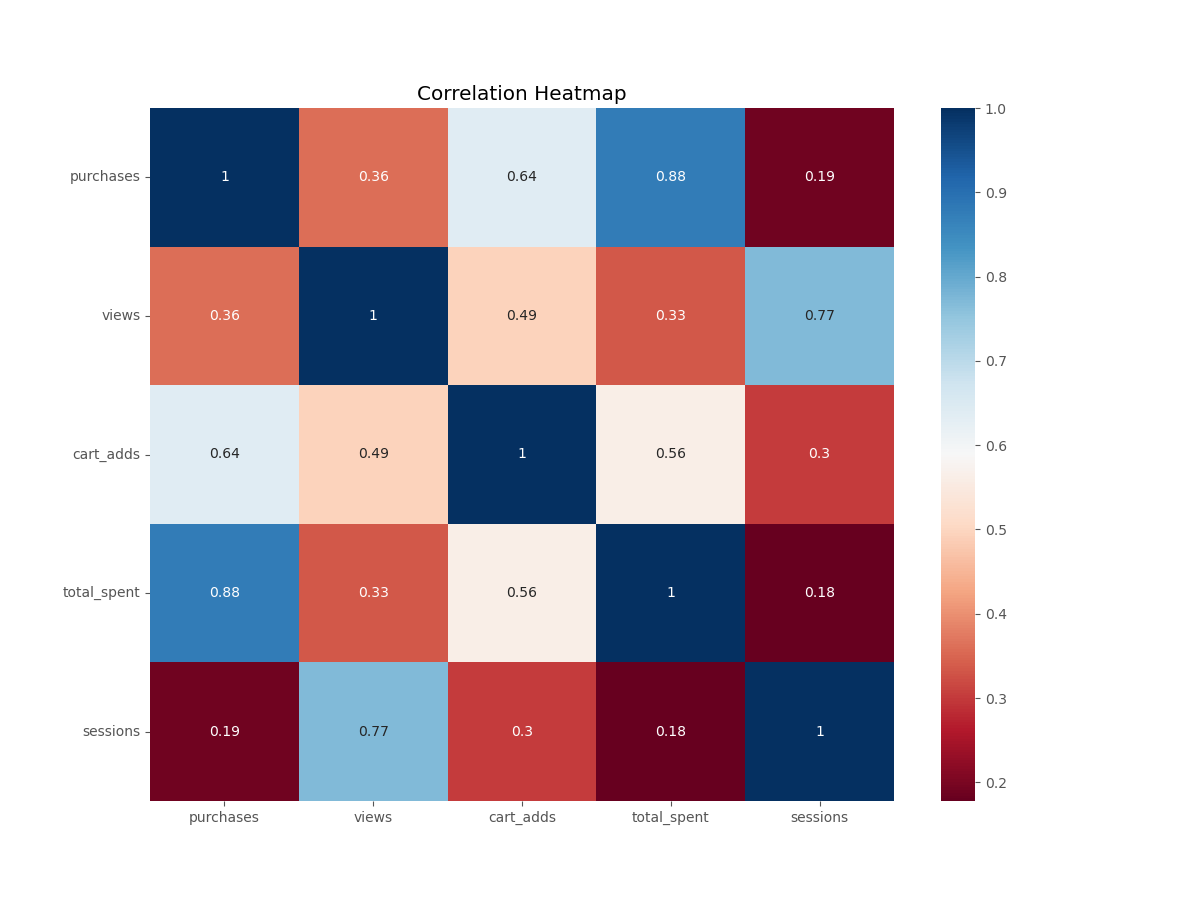
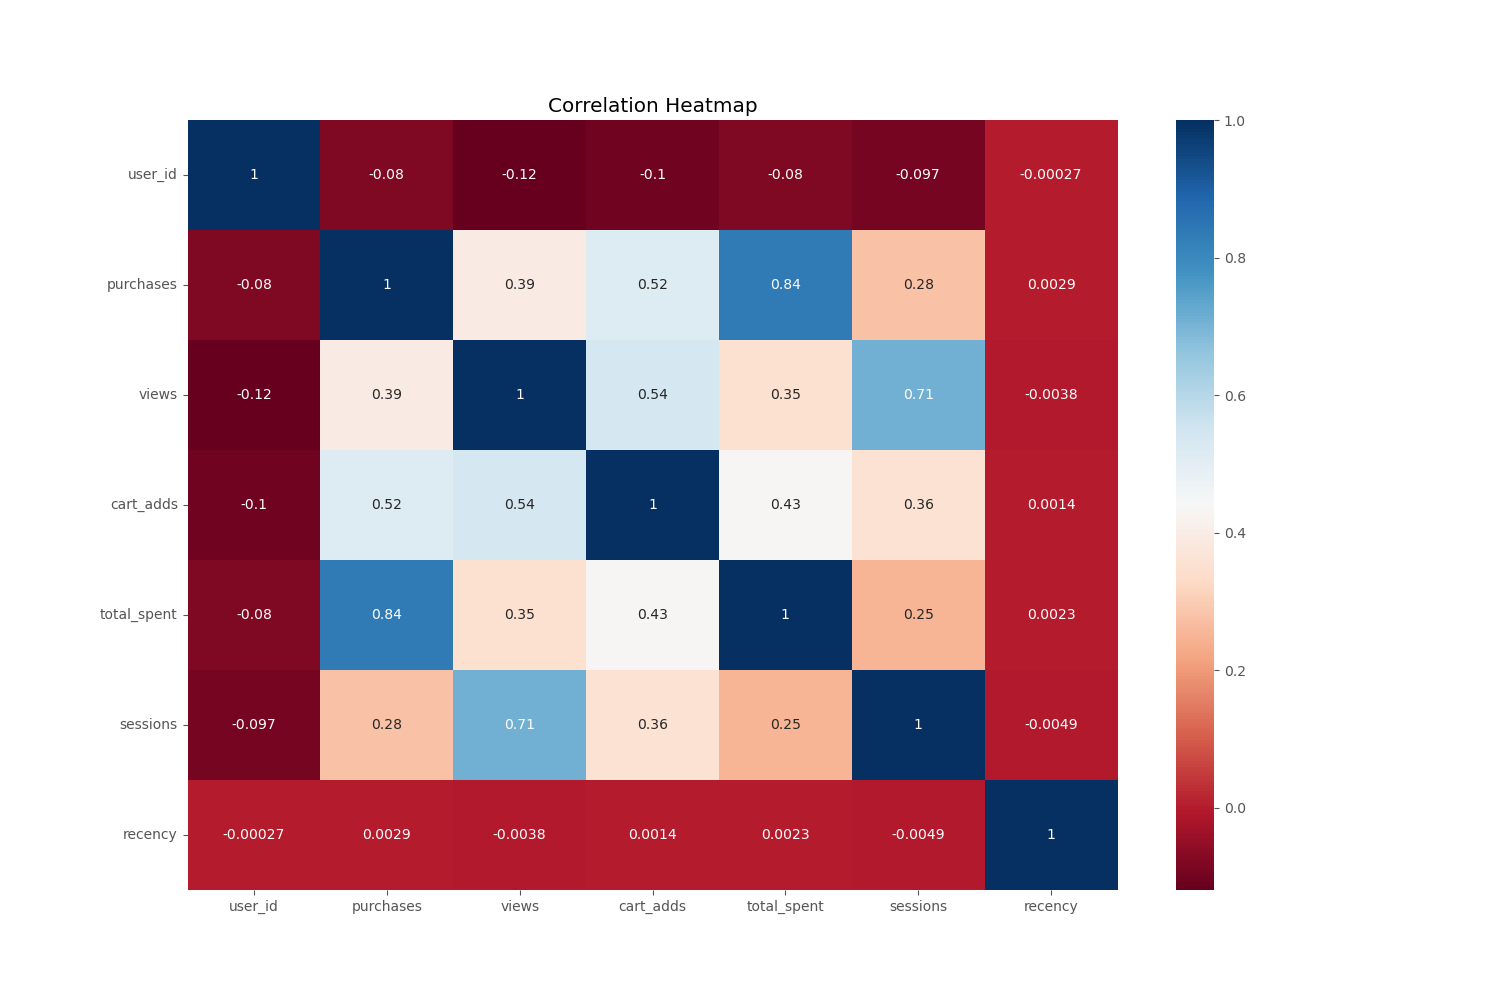
still elbow sweat

diff --git a/dataScience_02/postgres_db/app/chart.py b/dataScience_02/postgres_db/app/chart.py
@@ -1,0 +1,129 @@
+import pandas as pd
+import matplotlib.pyplot as plt
+import seaborn as sns
+from sklearn.preprocessing import StandardScaler
+from sklearn.cluster import KMeans
+
+def load(path: str) -> pd.DataFrame:
+    """Load a dataset from a CSV file and print its content."""
+
+    try:
+        assert isinstance(path, str), "the input must be string"
+        data = pd.read_csv(path)
+        print(f"Loading {path}\n")
+        return data
+
+    except AssertionError as msg:
+        print(f"AssertionError: {msg}")
+    except Exception as error:
+        print(f"Error: {error}")
+    return None
+
+
+def kmean_clustering(data: pd.DataFrame):
+    """ Perform K-means clustering on the dataset and print the results. """
+    plt.style.use('ggplot')
+    try:
+        assert isinstance(data, pd.DataFrame), "arg must be a dataframe"
+
+        plt.figure(figsize=(15, 10))
+        sns.heatmap(data.corr(numeric_only=True),annot=True,cmap='RdBu')
+        plt.title('Correlation Heatmap')
+        plt.yticks(rotation =0)
+        plt.savefig('corr_chart.png')
+        plt.show()
+
+        plt.figure(figsize=(15, 10))
+        plt.scatter(data['purchases'], data['total_spent'], c='blue', s=10, marker='.')
+        plt.savefig('purchases_tot_spent.png')
+        plt.show()
+        print('purchases_tot_spent.png created !\n')
+
+        scaler = StandardScaler()
+        data_scaled = scaler.fit_transform(data)
+        data_scaled = pd.DataFrame(data_scaled, columns=data.columns)
+        print("Features generated and normalized.\n")
+
+        wcss = []
+        for i in range (1,11):
+            kmeans = KMeans(n_clusters=i,init='k-means++', n_init=10 ,random_state=42)
+            kmeans.fit(data_scaled)
+            wcss.append(kmeans.inertia_)
+        print("K-means clustering completed.\n")
+        print("wcss: ", wcss)
+
+        plt.figure(figsize=(10, 6))
+        plt.plot(range(1, 11), wcss, marker = '+')
+        plt.title('The Elbow Method')
+        plt.xlabel('Number of Clusters')
+        plt.tick_params(length=0)
+        plt.savefig('elbow_chart.png')
+        plt.show()
+        print("Elbow plot generated.\n")
+
+
+    except AssertionError as msg:
+        print(f"AssertionError: {msg}")
+    except Exception as error:
+        print(f"Error: {error}")
+
+
+if __name__ == '__main__':
+    data = load("customer_data.csv")
+    if data is not None:
+        kmean_clustering(data)
+
+# docker cp postgres:app/purchases_tot_spent.png ex05 && docker cp postgres:app/corr_chart.png ex05 && docker cp postgres:app/elbow_chart.png ex05
+
+##################################################################################
+
+        # plt.figure()
+        # sns.heatmap(data.corr(numeric_only=True),annot=True,cmap='RdBu')
+        # plt.title('Correlation Heatmap')
+        # plt.yticks(rotation =0)
+        # plt.savefig('corr_chart.png')
+        # plt.show()
+
+        # filtered_data = data_segm_kmean[(data_segm_kmean['sessions'] < 40) & (data_segm_kmean['views'] < 100)]
+        # x_axis = filtered_data['sessions']
+        # y_axis = filtered_data['views']
+        # plt.figure()
+        # plt.scatter(x_axis, y_axis, c=filtered_data['Segment_K_means'], cmap='hsv')
+        # plt.xlabel('Sessions made')
+        # plt.ylabel('Views')
+        # plt.title('Segmentation K-means')
+        # plt.savefig('chart_session_views.png')
+        # plt.show()
+        # print("chart_session_views generated.\n")
+        
+        # kmeans = KMeans(n_clusters=4, init='k-means++', n_init=10, random_state=42)
+        # kmeans.fit(data)
+        # print("K-means clustering completed.\n")
+
+        # data_segm_kmean = data.copy()
+        # data_segm_kmean = pd.DataFrame(data, columns=data.columns)
+        # data_segm_kmean['Segment_K_means'] = kmeans.labels_
+        # print("data_segm_kmean\n", data_segm_kmean.head())
+        # print()
+
+        # data_segm_analysis = data_segm_kmean.groupby(['Segment_K_means']).mean().round(2)
+        # user_count = data_segm_kmean.groupby(['Segment_K_means']).size()
+        # data_segm_analysis['User_Count'] = user_count
+
+        # print("data_segm_analysis\n", data_segm_analysis)
+        # print()
+
+        # filtered_data = data_segm_kmean[(data_segm_kmean['Segment_K_means'] == 1)]
+        # x_axis = filtered_data['purchases']
+        # y_axis = filtered_data['total_spent']
+        # plt.figure(figsize=(10, 6))
+        # plt.scatter(x_axis, y_axis, c=filtered_data['Segment_K_means'], cmap='brg', s=10)
+        # plt.xlabel('Purchases')
+        # plt.ylabel('Total Spent')
+        # plt.title('Segmentation K-means')
+        # plt.colorbar()
+        # plt.savefig('chart_purch_spent.png')
+        # plt.show()
+        # print("chart_purch_spent generated.\n")
+
+##################################################################################

diff --git a/dataScience_02/postgres_db/app/engineer.py b/dataScience_02/postgres_db/app/engineer.py
@@ -1,0 +1,104 @@
+import pandas as pd
+from sklearn.preprocessing import StandardScaler
+from scipy import stats
+
+
+def load(path: str) -> pd.DataFrame:
+    """Load a dataset from a CSV file and print its content."""
+    try:
+        assert isinstance(path, str), "the input must be string"
+        data = pd.read_csv(path)
+        print(f"Loading {path}\n")
+        return data
+
+    except AssertionError as msg:
+        print(f"AssertionError: {msg}")
+    except Exception as error:
+        print(f"Error: {error}")
+    return None
+
+
+def remouve_outliers(data: pd.DataFrame) -> pd.DataFrame:
+    """ Remove outliers from the dataset. """
+    try:
+        assert isinstance(data, pd.DataFrame), "arg must be a dataframe"
+        print("Removing outliers from the dataset...\n")
+
+        z_scores_purchases = stats.zscore(data['purchases'])
+        z_scores_total_spent = stats.zscore(data['total_spent'])
+        z_scores_views = stats.zscore(data['views'])
+        z_scores_cart_adds = stats.zscore(data['cart_adds'])
+
+        seuil = 3
+
+        data = data[(z_scores_purchases < seuil) & (z_scores_purchases > -seuil) &
+                    (z_scores_total_spent < seuil) & (z_scores_total_spent > -seuil) &
+                    (z_scores_views < seuil) & (z_scores_views > -seuil) &
+                    (z_scores_cart_adds < seuil) & (z_scores_cart_adds > -seuil)]
+        return data
+
+    except AssertionError as msg:
+        print(f"AssertionError: {msg}")
+    except Exception as error:
+        print(f"Error: {error}")
+    return None
+
+
+def featuring_data(raw_data: pd.DataFrame) -> pd.DataFrame:
+    """Extracts features for each customer by aggregating the data."""
+    try:
+        assert isinstance(raw_data, pd.DataFrame), "Input must be a pandas DataFrame"
+        print("Extracting features from the data...\n")
+
+        raw_data['event_time'] = pd.to_datetime(raw_data['event_time'])
+        recent_date = raw_data.groupby('user_id')['event_time'].max().reset_index()
+        recent_date.columns = ['user_id', 'recent_event_time']
+        raw_data = pd.merge(raw_data, recent_date, on='user_id', how='left')
+        raw_data['recency'] = (raw_data['recent_event_time'] - raw_data['event_time']).dt.days
+        print("Recency calculated.\n")
+
+        total_purchases = raw_data[raw_data['event_type'] == 'purchase'].groupby('user_id')['event_type'].count()
+        total_spent = raw_data[raw_data['event_type'] == 'purchase'].groupby('user_id')['price'].sum()
+        average_spent = raw_data[raw_data['event_type'] == 'purchase'].groupby('user_id')['price'].mean()
+        total_sessions = raw_data.groupby('user_id')['user_session'].nunique()
+        recency = raw_data.groupby('user_id')['recency'].mean()
+
+        customer_data = pd.DataFrame({
+            'purchases': total_purchases,   # total purchases made by each customer
+            'total_spent': total_spent,     # total amount spent by each customer
+            'average_spent': average_spent, # average amount spent by each customer
+            'sessions': total_sessions,     # total sessions made by each customer
+            'recency': recency              # average recency of each customer
+        }).fillna(0)
+
+        print("Features extracted customer_data:")
+        print(customer_data.head(50))
+        print()
+
+        # data = remouve_outliers(customer_data)
+        # print("Outliers removed from the dataset.\n")
+
+        # desc = data.describe()
+        desc = customer_data.describe()
+        print("Descriptive statistics of the data:")
+        print(desc.to_string(formatters={'purchases': '{:.2f}'.format,
+                                'total_spent': '{:.2f}'.format,
+                                'sessions': '{:.2f}'.format,
+                                'recency': '{:.2f}'.format}))
+        print()
+
+        data.to_csv("customer_data.csv")
+        print("Dataset saved to 'customer_data.csv'.\n")
+        return pd.DataFrame(data, columns=data.columns)
+
+    except AssertionError as msg:
+        print(f"AssertionError: {msg}")
+    except Exception as error:
+        print(f"Error: {error}")
+    return None
+
+
+if __name__ == '__main__':
+    data = load("raw_data.csv")
+    if data is not None:
+        featuring_data(data)

diff --git a/dataScience_02/postgres_db/app/save_csv.py b/dataScience_02/postgres_db/app/save_csv.py
@@ -31,7 +31,7 @@ def export_to_csv():
     """ Export the sum_event_type table to a CSV file """
     command = """
     COPY (
-        SELECT *
+        SELECT event_time, event_type, price, user_id, user_session
         FROM customers
     ) TO STDOUT WITH CSV HEADER;
     """
@@ -39,9 +39,9 @@ def export_to_csv():
         config = load_config()
         with psycopg2.connect(**config) as conn:
             with conn.cursor() as cur:
-                with open('out.csv', 'w') as f:
+                with open('raw_data.csv', 'w') as f:
                     cur.copy_expert(command, f)
-        print("Data exported successfully to out.csv.\n")
+        print("Data exported successfully to raw_data.csv.\n")
 
     except (psycopg2.DatabaseError, Exception) as error:
         print(f"Error: {error}")
